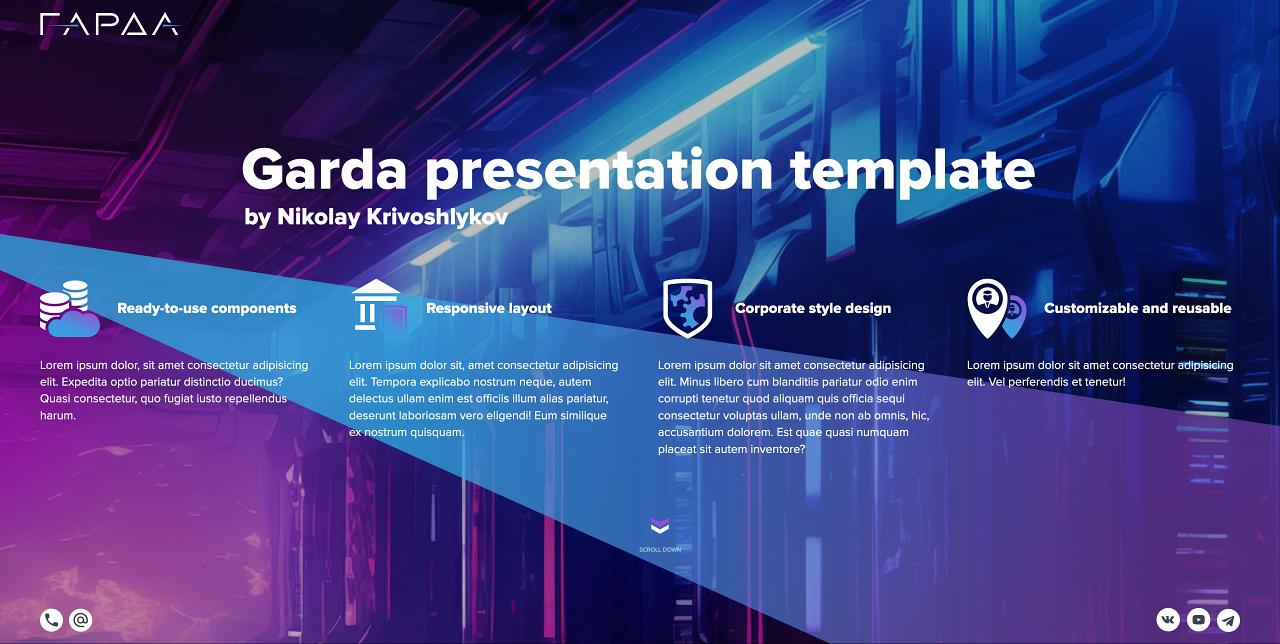
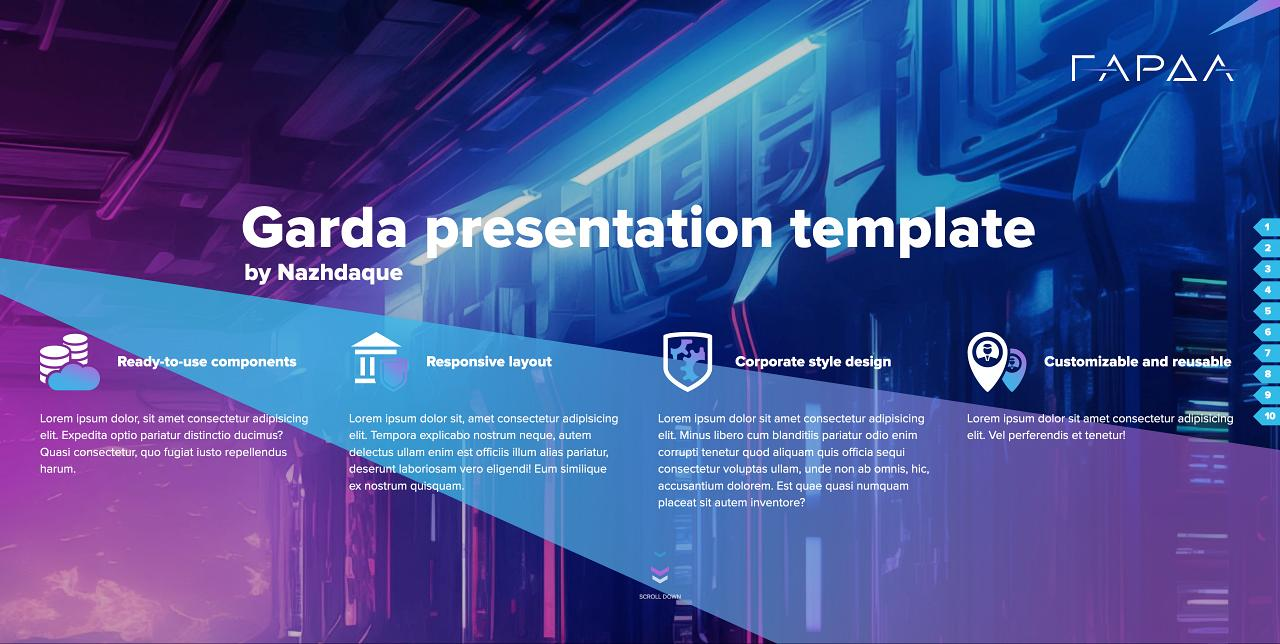
stages

diff --git a/html/slide-10.html b/html/slide-10.html
@@ -1,0 +1,71 @@
+<article class="slide __slide-10 layout-center z-up"
+				 id="slide-10">
+	<div class="slide__top-group">
+		<div class="slide-ttl width-x z-up">
+			<h1 class="fs-2xl fw-eb">Ordered list: <span class="txt-grd">stages</span></h1>
+			<p class="fs-lg txt-grd">Based on framed cards</p>
+		</div>
+		<a href="#"
+			 class="brand-logo sm-d-none"
+			 aria-label="home">
+			<img src="./images/logo-b.svg"
+					 alt="brand-logo">
+		</a>
+	</div>
+
+	<div class="cards-framed -framed-3 grid-x ordered-list">
+		<section class="card-framed">
+			<div class="card-framed__head">
+				<div class="card-framed__icon img-box icon-bg fs-2xl"></div>
+			</div>
+			<div class="card-framed__body">
+				<div class="card-framed__txt">
+					<h2 class="card-framed__inner-ttl fs-lg fw-eb">Lorem ipsum</h2>
+					<p>Lorem, ipsum dolor sit amet consectetur adipisicing elit. Sed excepturi delectus minus ex labore accusamus
+						itaque perspiciatis officia, nobis dolorum voluptatum dolore autem.</p>
+				</div>
+			</div>
+		</section>
+
+		<section class="card-framed">
+			<div class="card-framed__head">
+				<div class="card-framed__icon img-box icon-bg fs-2xl"></div>
+			</div>
+			<div class="card-framed__body">
+				<div class="card-framed__txt">
+					<h2 class="card-framed__inner-ttl fs-lg fw-eb">Lorem ipsum dolor sit</h2>
+					<p>Lorem ipsum, dolor sit amet consectetur adipisicing elit. Est deserunt quod molestias impedit fugiat
+						laudantium, accusantium veniam pariatur assumenda, fuga illum necessitatibus ipsum. Corporis, optio quia?
+						Magnam possimus at corporis. Iste.</p>
+				</div>
+			</div>
+		</section>
+
+		<section class="card-framed">
+			<div class="card-framed__head">
+				<div class="card-framed__icon img-box icon-bg fs-2xl"></div>
+			</div>
+			<div class="card-framed__body">
+				<div class="card-framed__txt txt-grd">
+					<h2 class="card-framed__inner-ttl fs-lg fw-eb">Lorem ipsum dolor</h2>
+					<p>Lorem, ipsum dolor sit amet consectetur adipisicing elit. Rerum suscipit culpa fugit vel
+						nemo ipsam et eos
+						ex.</p>
+				</div>
+			</div>
+		</section>
+
+		<section class="card-framed">
+			<div class="card-framed__head">
+				<div class="card-framed__icon img-box icon-bg fs-2xl"></div>
+			</div>
+			<div class="card-framed__body">
+				<div class="card-framed__txt">
+					<h2 class="card-framed__inner-ttl fs-lg fw-eb">Lorem</h2>
+					<p>Lorem ipsum dolor sit, amet consectetur adipisicing elit. Inventore tenetur rem, distinctio quasi
+						consectetur nisi quae, cum in veniam dolorum sequi fuga tempora, incidunt ipsum optio unde.</p>
+				</div>
+			</div>
+		</section>
+	</div>
+</article>

diff --git a/index.html b/index.html
@@ -40,7 +40,7 @@
 	<title>garda presentation template</title>
 	<link rel="icon"
 				type="image/svg+xml"
-				href="./images/icons/vite.svg">
+				href="./images/logo-simbol-b.svg">
 </head>
 
 <body class="layout-body">
@@ -59,17 +59,7 @@
 
 	<main class="main-content scroll-snap-block">
 		<nav class="nav-panel">
-			<ul class="slide-list">
-				<li><a href="#slide-1"></a></li>
-				<li><a href="#slide-2"></a></li>
-				<li><a href="#slide-3"></a></li>
-				<li><a href="#slide-4"></a></li>
-				<li><a href="#slide-5"></a></li>
-				<li><a href="#slide-6"></a></li>
-				<li><a href="#slide-7"></a></li>
-				<li><a href="#slide-8"></a></li>
-				<li><a href="#slide-9"></a></li>
-			</ul>
+			<ul class="slide-list"></ul>
 		</nav>
 	</main>
 

diff --git a/css/common/root.css b/css/common/root.css
@@ -25,30 +25,8 @@
 		hsl(var(--clr-1b)) 0,
 		hsl(var(--clr-1a)) 100%
 	);
-	/* |||||||||| |||||||||| |||||||||| |||||||||| */
-	/* --sphere-1a: radial-gradient(
-		circle at 65% 15%,
-		white 0.01em,
-		hsl(
-				var(--clr-1a-h),
-				calc(var(--clr-1a-s) * 0.5),
-				calc(var(--clr-1a-l) * 1.75)
-			)
-			3%,
-		hsl(
-				var(--clr-1a-h),
-				calc(var(--clr-1a-s) * 0.5),
-				calc(var(--clr-1a-l) * 0.5)
-			)
-			60%,
-		hsl(
-				var(--clr-1a-h),
-				calc(var(--clr-1a-s) * 0.5),
-				calc(var(--clr-1a-l) * 1.75)
-			)
-			100%
-	); */
 
+	/* |||||||||| |||||||||| |||||||||| |||||||||| */
 	--sphere-1a: radial-gradient(
 		circle at 65% 15%,
 		white 0.01em,

diff --git a/js/importHTML.js b/js/importHTML.js
@@ -7,6 +7,7 @@ import slide_6 from "../html/slide-6.html?raw";
 import slide_7 from "../html/slide-7.html?raw";
 import slide_8 from "../html/slide-8.html?raw";
 import slide_9 from "../html/slide-9.html?raw";
+// import slide_10 from "../html/slide-10.html?raw";
 
 const slides = document.querySelector(".main-content");
 slides.insertAdjacentHTML("beforeend", slide_1);
@@ -18,3 +19,4 @@ slides.insertAdjacentHTML("beforeend", slide_6);
 slides.insertAdjacentHTML("beforeend", slide_7);
 slides.insertAdjacentHTML("beforeend", slide_8);
 slides.insertAdjacentHTML("beforeend", slide_9);
+// slides.insertAdjacentHTML("beforeend", slide_10);

diff --git a/css/components/nav-panel.css b/css/components/nav-panel.css
@@ -24,18 +24,18 @@
 	position: relative;
 	transition: transform 0.1s;
 	overflow: hidden;
-	right: -1em;
+	right: -0.75em;
 }
 .slide-list > *:hover {
-	transform: translateX(-1em);
+	transform: translateX(-0.75em);
 }
 
 .slide-list > *::after {
 	content: counter(slide-counter);
 	font-family: var(--ff-rg);
 	font-weight: var(--fw-eb);
-	font-size: 0.85em;
 	place-self: center start;
+	font-size: 0.85em;
 	margin-left: 1.15em;
 }
 

diff --git a/main.js b/main.js
@@ -2,3 +2,14 @@ import "./css/main.css";
 import "material-icons/iconfont/round.css";
 import "./js/importHTML.js";
 import "./js/scrollDownPromptDisable.js";
+
+document.querySelectorAll(".slide").forEach((slide, i) => {
+	document.querySelector(".slide-list").insertAdjacentHTML(
+		"beforeend",
+		`<li>
+			<a href="#slide-${i + 1}">
+				<span class="sr-only">slide ${i + 1}</span>
+			</a>
+		</li>`
+	);
+});

diff --git a/css/main.css b/css/main.css
@@ -29,6 +29,7 @@
 @import url(./parts/slide-7.css) layer(parts);
 @import url(./parts/slide-8.css) layer(parts);
 @import url(./parts/slide-9.css) layer(parts);
+@import url(./parts/slide-10.css) layer(parts);
 @import url(./parts/footer.css) layer(parts);
 
 @import url(./common/utilities.css) layer(utilities);

diff --git a/css/parts/slide-10.css b/css/parts/slide-10.css
@@ -1,0 +1,10 @@
+.__slide-10 {
+	--clr-bg: hsl(var(--clr-0a));
+	--clr-solid: hsl(var(--clr-0b));
+}
+
+.__slide-10 .cards-framed {
+	--col: 4;
+
+	place-self: start center;
+}

diff --git a/css/parts/header.css b/css/parts/header.css
@@ -12,4 +12,7 @@
 	aspect-ratio: var(--logo-x) / var(--logo-y);
 	outline: none;
 	overflow: hidden;
+
+	/* position: absolute;
+	right: 3rem; */
 }
